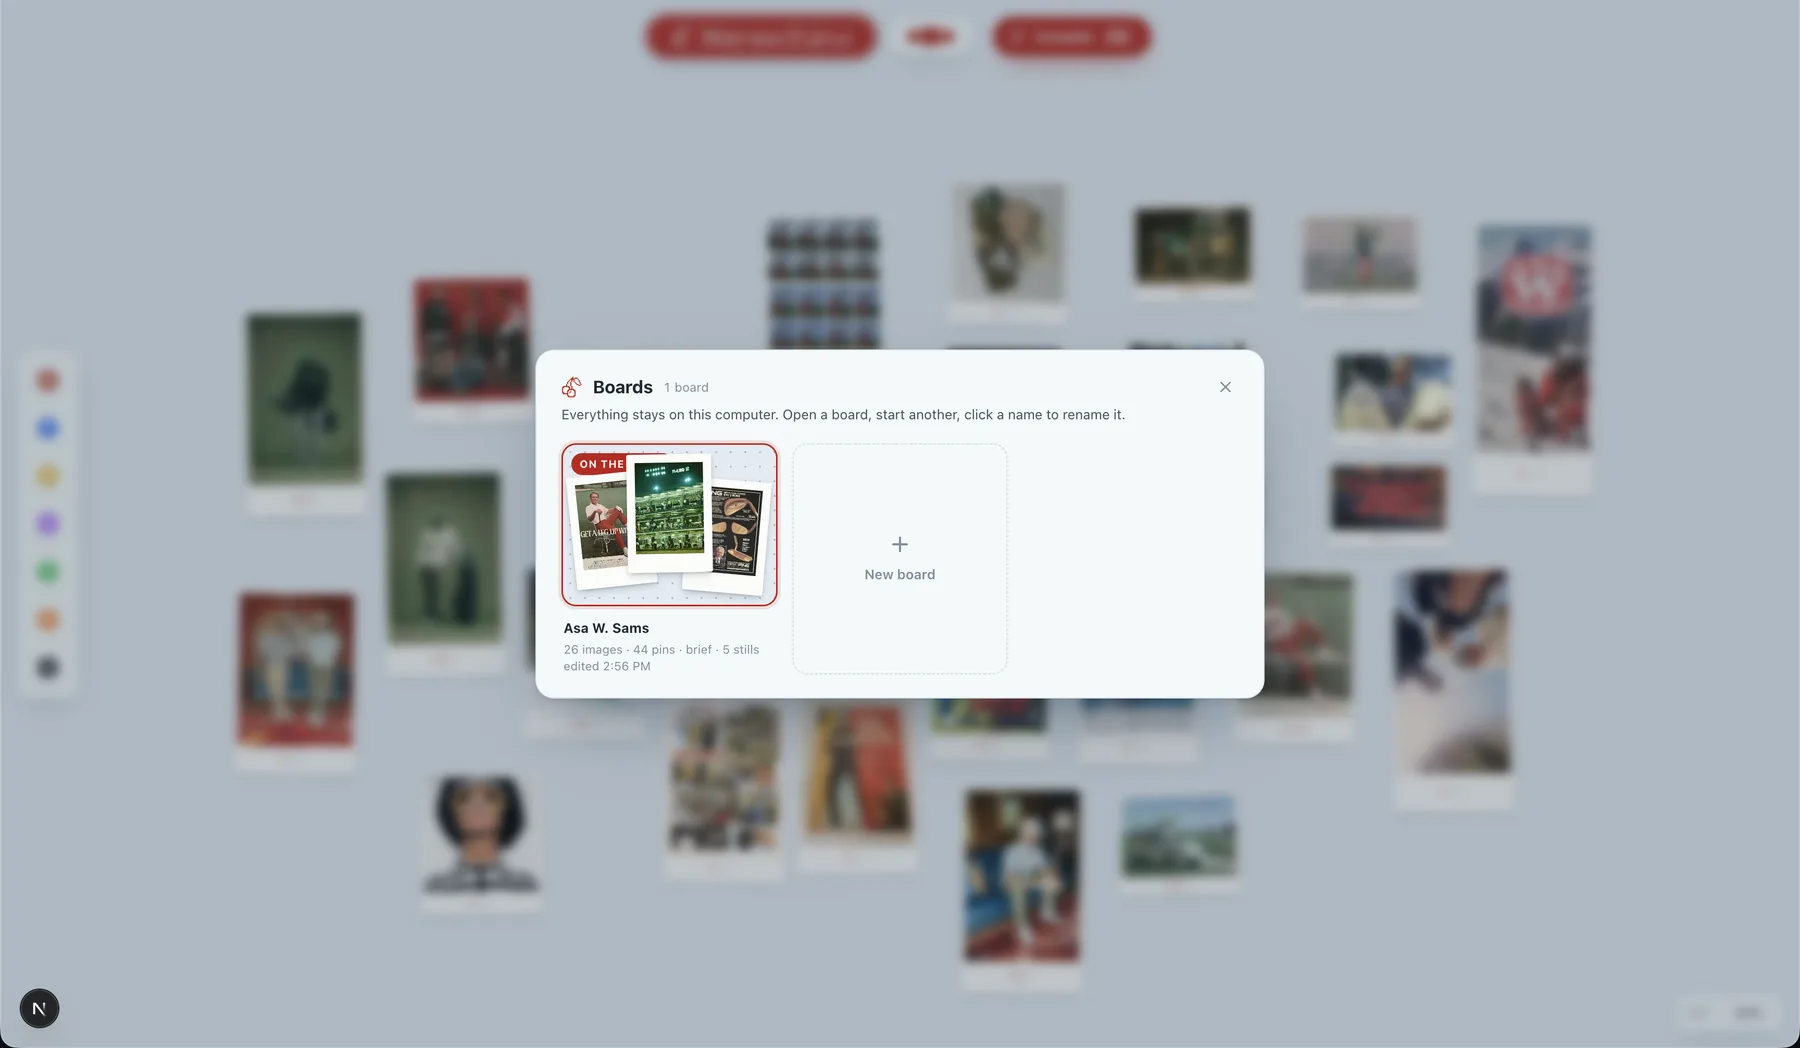
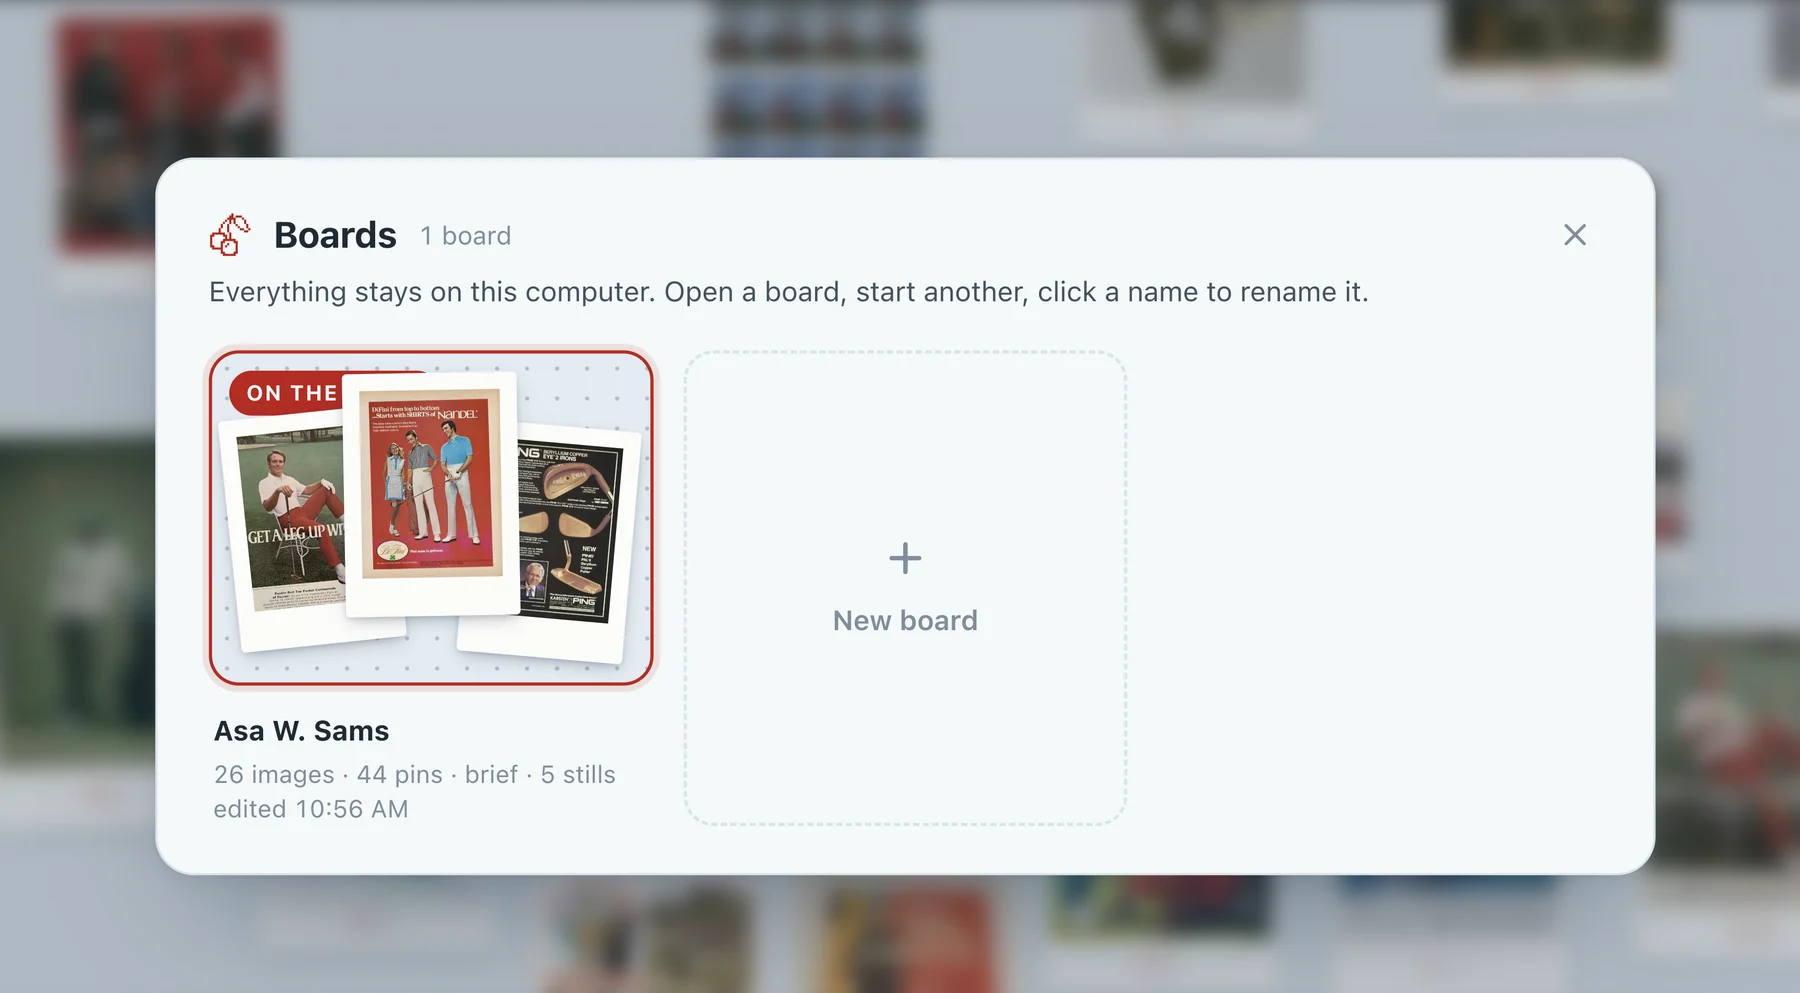
Maraschino: close-up Boards screenshot

diff --git a/case-studies/maraschino/index.html b/case-studies/maraschino/index.html
@@ -354,7 +354,7 @@
     </div>
 
     <div class="walk flip">
-      <figure class="walk-fig pol"><img src="assets/ui-boards.webp" alt="The Boards panel over a blurred board: one saved board card, 'Asa W. Sams', and a 'New board' slot." width="1800" height="1048" loading="lazy"><figcaption class="chin"><span>Boards · one on the table, the rest on the shelf</span><span class="w"><i class="on"></i><i></i><i></i></span></figcaption></figure>
+      <figure class="walk-fig pol"><img src="assets/ui-boards.webp" alt="The Boards panel, close up: one saved board card, 'Asa W. Sams', 26 images and 44 pins, next to a 'New board' slot." width="1800" height="993" loading="lazy"><figcaption class="chin"><span>Boards · one on the table, the rest on the shelf</span><span class="w"><i class="on"></i><i></i><i></i></span></figcaption></figure>
       <div class="walk-body">
         <div class="walk-tag">Boards</div>
         <h3>Everything stays on this computer.</h3>
